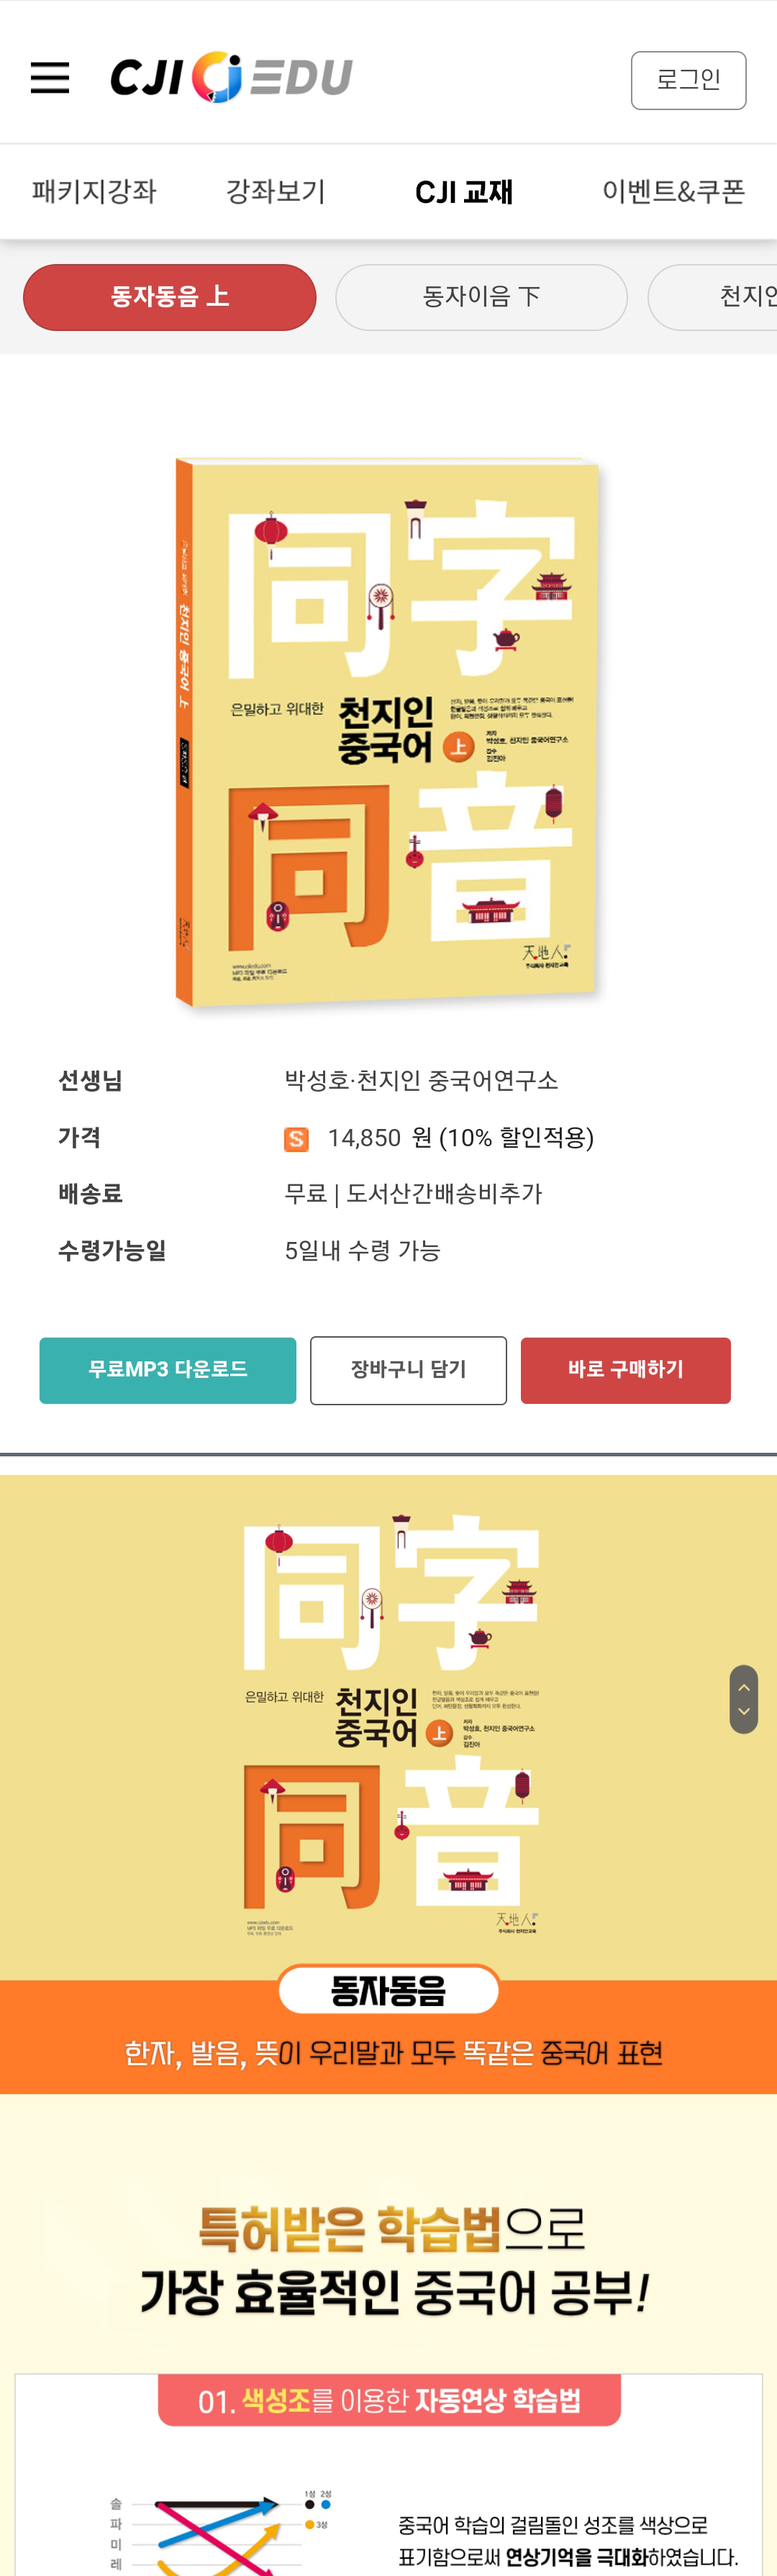
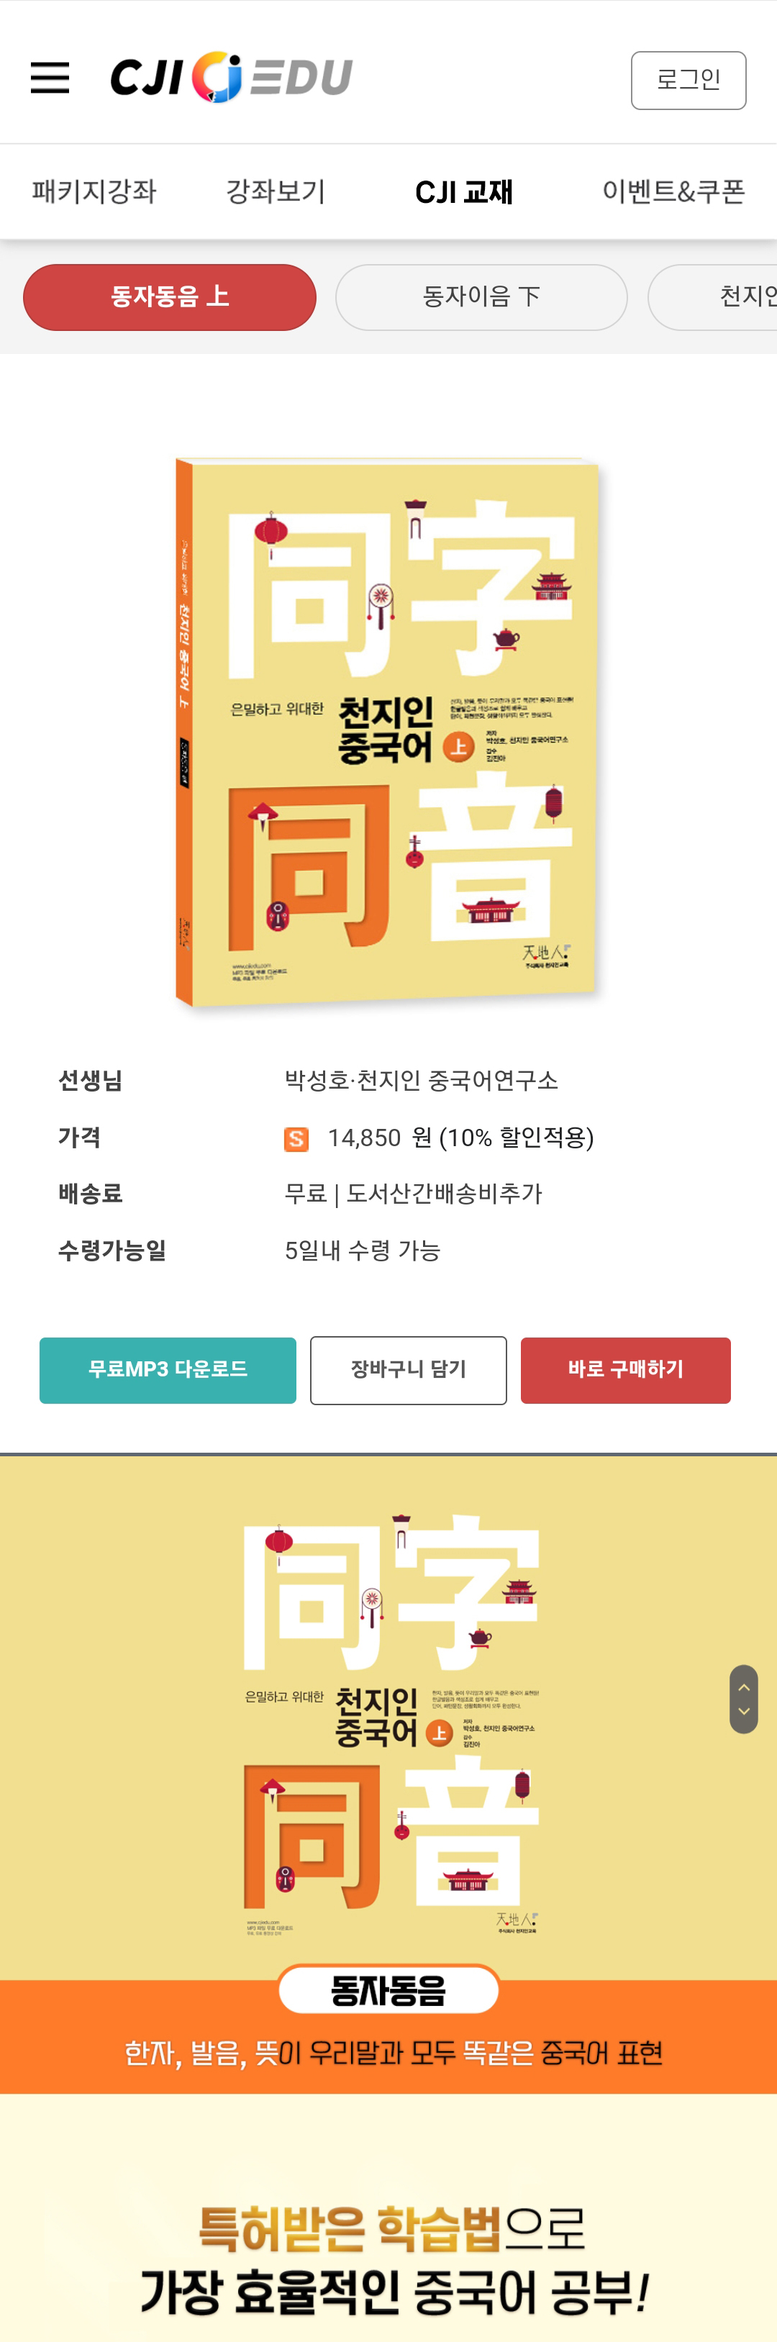
3차 완성본

diff --git a/_inc/collection_detail_vmd_cji.html b/_inc/collection_detail_vmd_cji.html
@@ -27,6 +27,8 @@
                 var textTitle = $(this).find("img").attr("title");
                 var textAlt = $(this).find("img").attr("alt");
                 var mainIframe = $("#main_iframe");
+                var iFrameParent =mainIframe.parent(); 
+                mainIframe.remove();
                 
                 // 슬라이드 버튼
                 $(this).addClass("select");
@@ -39,6 +41,7 @@
                 text.text(textTitle);
                 // 슬라이드 내용 교체
                 mainIframe.attr("src","/_inc/web/cji/html/edu/html/" + textAlt + ".html");
+                iFrameParent.append(mainIframe);
             });
         });
     </script>
@@ -52,7 +55,6 @@
             .collection_detail .img_container {margin-top: 90px !important;}
             .txt_contdetail_box  {flex-direction: column-reverse; }
             .tab_icon_box{position: absolute;top: -70px;}
-            .tab_icon_box img {max-width: none;width: 30px;height: 30px;}
             .img_container .title {font-size: 1.7em;margin-bottom: 0px !important;margin-top: 20px;}
             .img_container p {display: block !important;font-size: 0.8em; color: #6f6f6f;margin-bottom: 30px;position: absolute;bottom: 10px;text-align: center;width: calc(100% - 115px);}
         }

diff --git a/_inc/collection_detail_web_ssg.html b/_inc/collection_detail_web_ssg.html
@@ -58,8 +58,6 @@
                         <div><img src="/_assets/img/publishing/ssg/ssg_web8_2.png" alt="ssg"></div>
                         <div class="bg_gr"><img src="/_assets/img/publishing/ssg/ssg_web8_6.png" alt="ssg"></div>
                         <div class="bg_gr"><img src="/_assets/img/publishing/ssg/ssg_web8_3.png" alt="ssg"></div>
-                        <div><img src="/_assets/img/publishing/ssg/ssg_web8_4.png" alt="ssg"></div>
-                        <div><img src="/_assets/img/publishing/ssg/ssg_web8_5.png" alt="ssg"></div><br>
                         <div><img src="/_assets/img/publishing/ssg/ssg_web9.png" alt="ssg"></div>
                         <div><img src="/_assets/img/publishing/ssg/ssg_web9_2.png" alt="ssg"></div>
                         <div><img src="/_assets/img/publishing/ssg/ssg_web9_3.png" alt="ssg"></div>

diff --git a/_inc/collection_detail_cji.html b/_inc/collection_detail_cji.html
@@ -71,8 +71,9 @@
                         <div><img src="/_assets/img/publishing/cji/web_cji_2_5.jpg" alt="cji mobile"></div>
                         <div class="dum"><hr></div>
                         <div><img src="/_assets/img/publishing/cji/web_cji_5.jpg" alt="cji mobile"></div>
-                        <div><img src="/_assets/img/publishing/cji/web_cji_5_2.jpg" alt="cji mobile"></div><br>
+                        <div><img src="/_assets/img/publishing/cji/web_cji_5_2.jpg" alt="cji mobile"></div>
                         <div><img src="/_assets/img/publishing/cji/web_cji_4.jpg" alt="cji mobile"></div>
+                        <div><img src="/_assets/img/publishing/cji/web_cji_6.jpg" alt="cji mobile"></div>
                     </div>
                 </div>
             </section>

diff --git a/_assets/css/style.css b/_assets/css/style.css
@@ -566,7 +566,6 @@ main > section {
   top: 50%;
 }
 .footer > section {
-  width: 20%;
   opacity: 0.5;
 }
 
@@ -838,13 +837,18 @@ main > section {
   .collection_list {
     grid-template-columns: repeat(1, 1fr);
   }
-  .collection_detail{padding:100px 30px;}
+  .collection_detail{padding:100px 30px 150px;}
+  .label_box .label::after {font-size: 0.8em;}
   .collection_detail .txt_container .fontibm {
     font-size: 1.7em !important;
+    word-break: keep-all;
   }
   .collection_detail .txt_container .txt_contdetail_box {
     flex-direction: column-reverse;
   }
+
+  .tab_icon_box img {max-width: none;width: 30px;height: 30px;}
+  .collection_detail .img_container {padding: 40px;}
   .collection_detail .img_container .img_box {
     display: flex;
     flex-direction: column;

diff --git a/_inc/top.html b/_inc/top.html
@@ -20,6 +20,7 @@
       $(".ico_back img").hover(function(i, e){
           $(this).toggleClass("up");
       });
+      //parent.window.location='./'
     });
   </script>
   <style>
@@ -29,7 +30,7 @@
 <body>
   <header class="nav-bar-bg">
     <nav class="flex flex_btw">
-      <a href="javascript:;"  onclick="parent.window.location='/'" class="ico_back posi_r">
+      <a href="javascript:history.back();" class="ico_back posi_r">
         <img src="/_assets/img/icon_arrow_gray.png" alt="뒤로가기" title="뒤로가기" class="up">
         <img src="/_assets/img/icon_arrow_black.png" alt="뒤로가기" title="뒤로가기">
       </a>

diff --git a/index.html b/index.html
@@ -29,7 +29,7 @@
    @media all and (max-width: 780px){
       .slide__heading {font-size: clamp(5rem, 12vw, 12rem);}
       footer  {display: none;}
-      .overlay__count { display: flex;justify-content: end;align-items: flex-end;}
+      .overlay__count { display: flex;justify-content: end;align-items: flex-end;font-size: 2em;}
    }
   </style>
 
